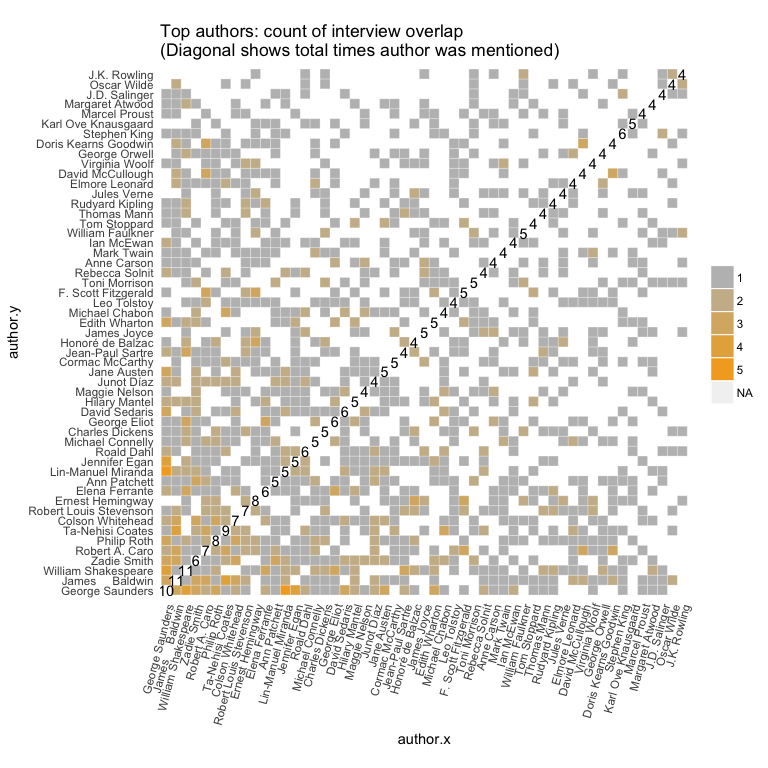
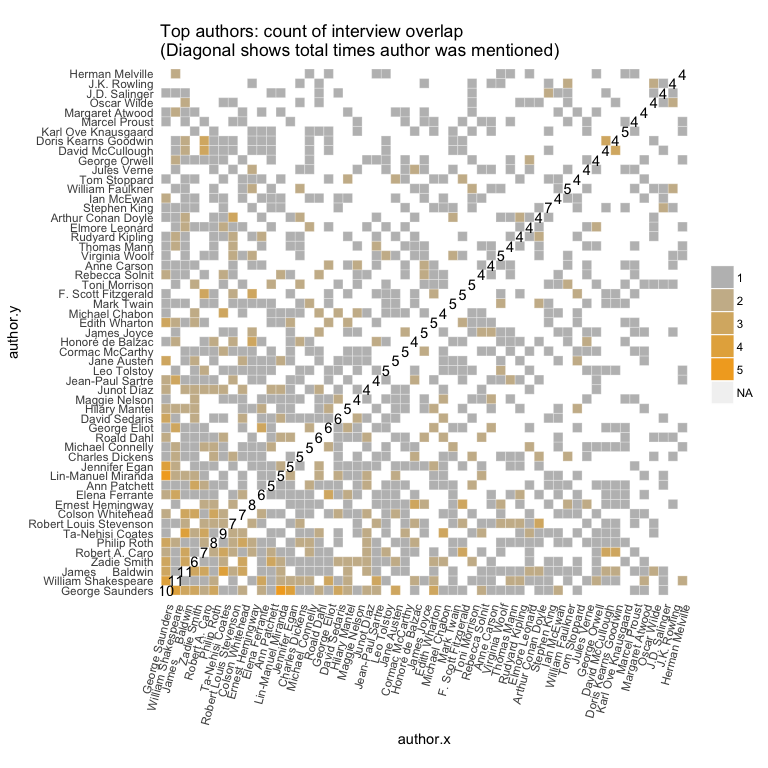
updated data

diff --git a/btb.md b/btb.md
@@ -1,19 +1,17 @@
-    ## Warning: package 'purrr' was built under R version 3.4.2
-
 New York Times "By The Book" Interviews
 ---------------------------------------
 
-Interview dates: **December 1, 2016 - December 14, 2017**
+Interview dates: **December 1, 2016 - December 28, 2017**
 
-Total interviews: **54**
+Total interviews: **56**
 
-Total unique authors mentioned: **1267**
+Total unique authors mentioned: **1287**
 
-The New York Times Book Review's "By the Book" feature is a weekly interview exploring reading habits past, present, and planned. The interviews yield author recommendations - an average of **32** authors mentioned by name in each interview. The dataset analyzed below is a result of code that looks at the text of each interview, identifies strings of text that look like author names, and verifies them by looking for corresponding names in the Goodreads author database. The gender and birthdate information comes from the data in the Goodreads database, with missing data filled in from the authors' Wikipedia pages.
+The New York Times Book Review's "By the Book" feature is a weekly interview exploring reading habits past, present, and planned. The interviews yield author recommendations - an average of **31** authors mentioned by name in each interview. The dataset analyzed below is a result of code that looks at the text of each interview, identifies strings of text that look like author names, and verifies them by looking for corresponding names in the Goodreads author database. The gender and birthdate information comes from the data in the Goodreads database, with missing data filled in from the authors' Wikipedia pages.
 
 ### Gender
 
-There were a total of **24** female interviewees and **30** male interviewees.
+There were a total of **24** female interviewees and **32** male interviewees.
 
 ![](btb_files/figure-markdown_github/unnamed-chunk-2-1.png)
 
@@ -25,13 +23,13 @@ But there is wide variation among interviewees in the total number of authors me
 
 ![](btb_files/figure-markdown_github/unnamed-chunk-4-1.png)
 
-Older interviewees are both more likely to be male (**64%** of male interviewees were born before 1960, vs **47%** of female interviewees) and more likely to have recommended a lower percentage of female authors.
+Older interviewees are both more likely to be male (**63%** of male interviewees were born before 1960, vs **47%** of female interviewees) and more likely to have recommended a lower percentage of female authors.
 
 ![](btb_files/figure-markdown_github/unnamed-chunk-5-1.png)
 
 ### Frequently mentioned authors
 
-This data has a long tail - there are **1267** unique authors mentioned across the **54** interviews, and **1032** of them are only mentioned once. The most frequently mentioned authors are mentioned by a fifth of all interviewees. The chart below shows the most frequently mentioned authors, the number of times they were mentioned, and the dates they were mentioned.
+This data has a long tail - there are **1287** unique authors mentioned across the **56** interviews, and **1042** of them are only mentioned once. The most frequently mentioned authors are mentioned by a fifth of all interviewees. The chart below shows the most frequently mentioned authors, the number of times they were mentioned, and the dates they were mentioned.
 
 ![](btb_files/figure-markdown_github/unnamed-chunk-6-1.png)
 
